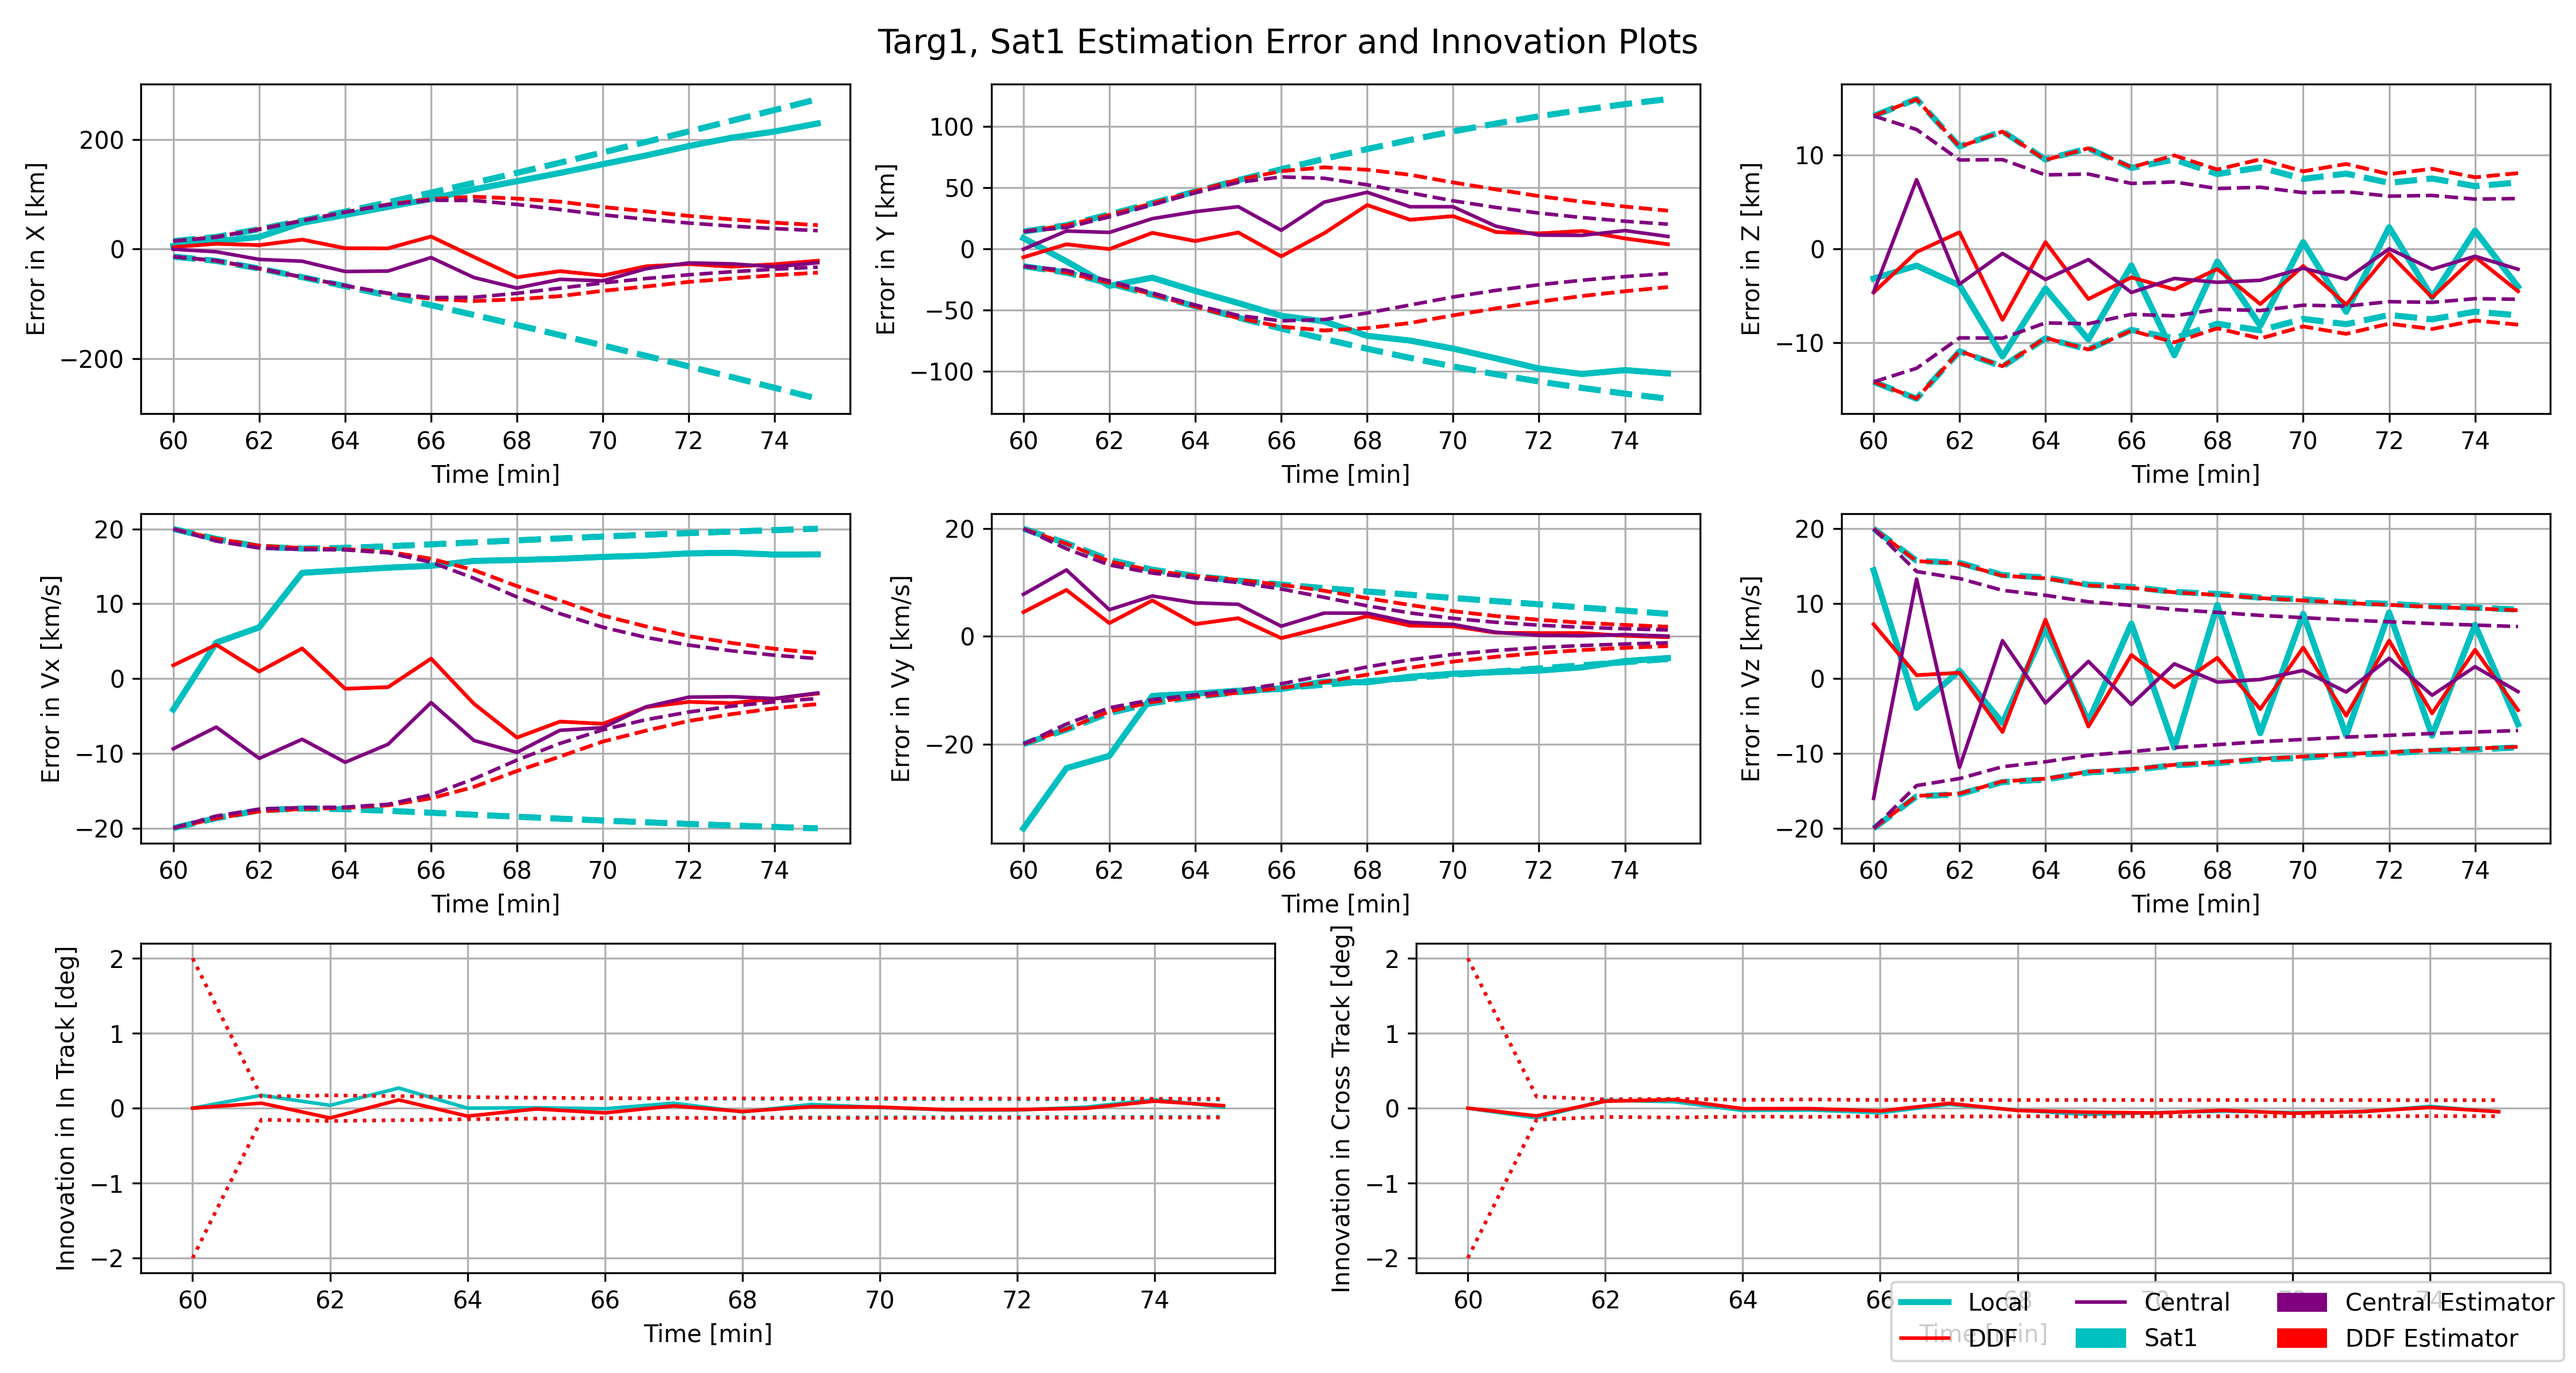
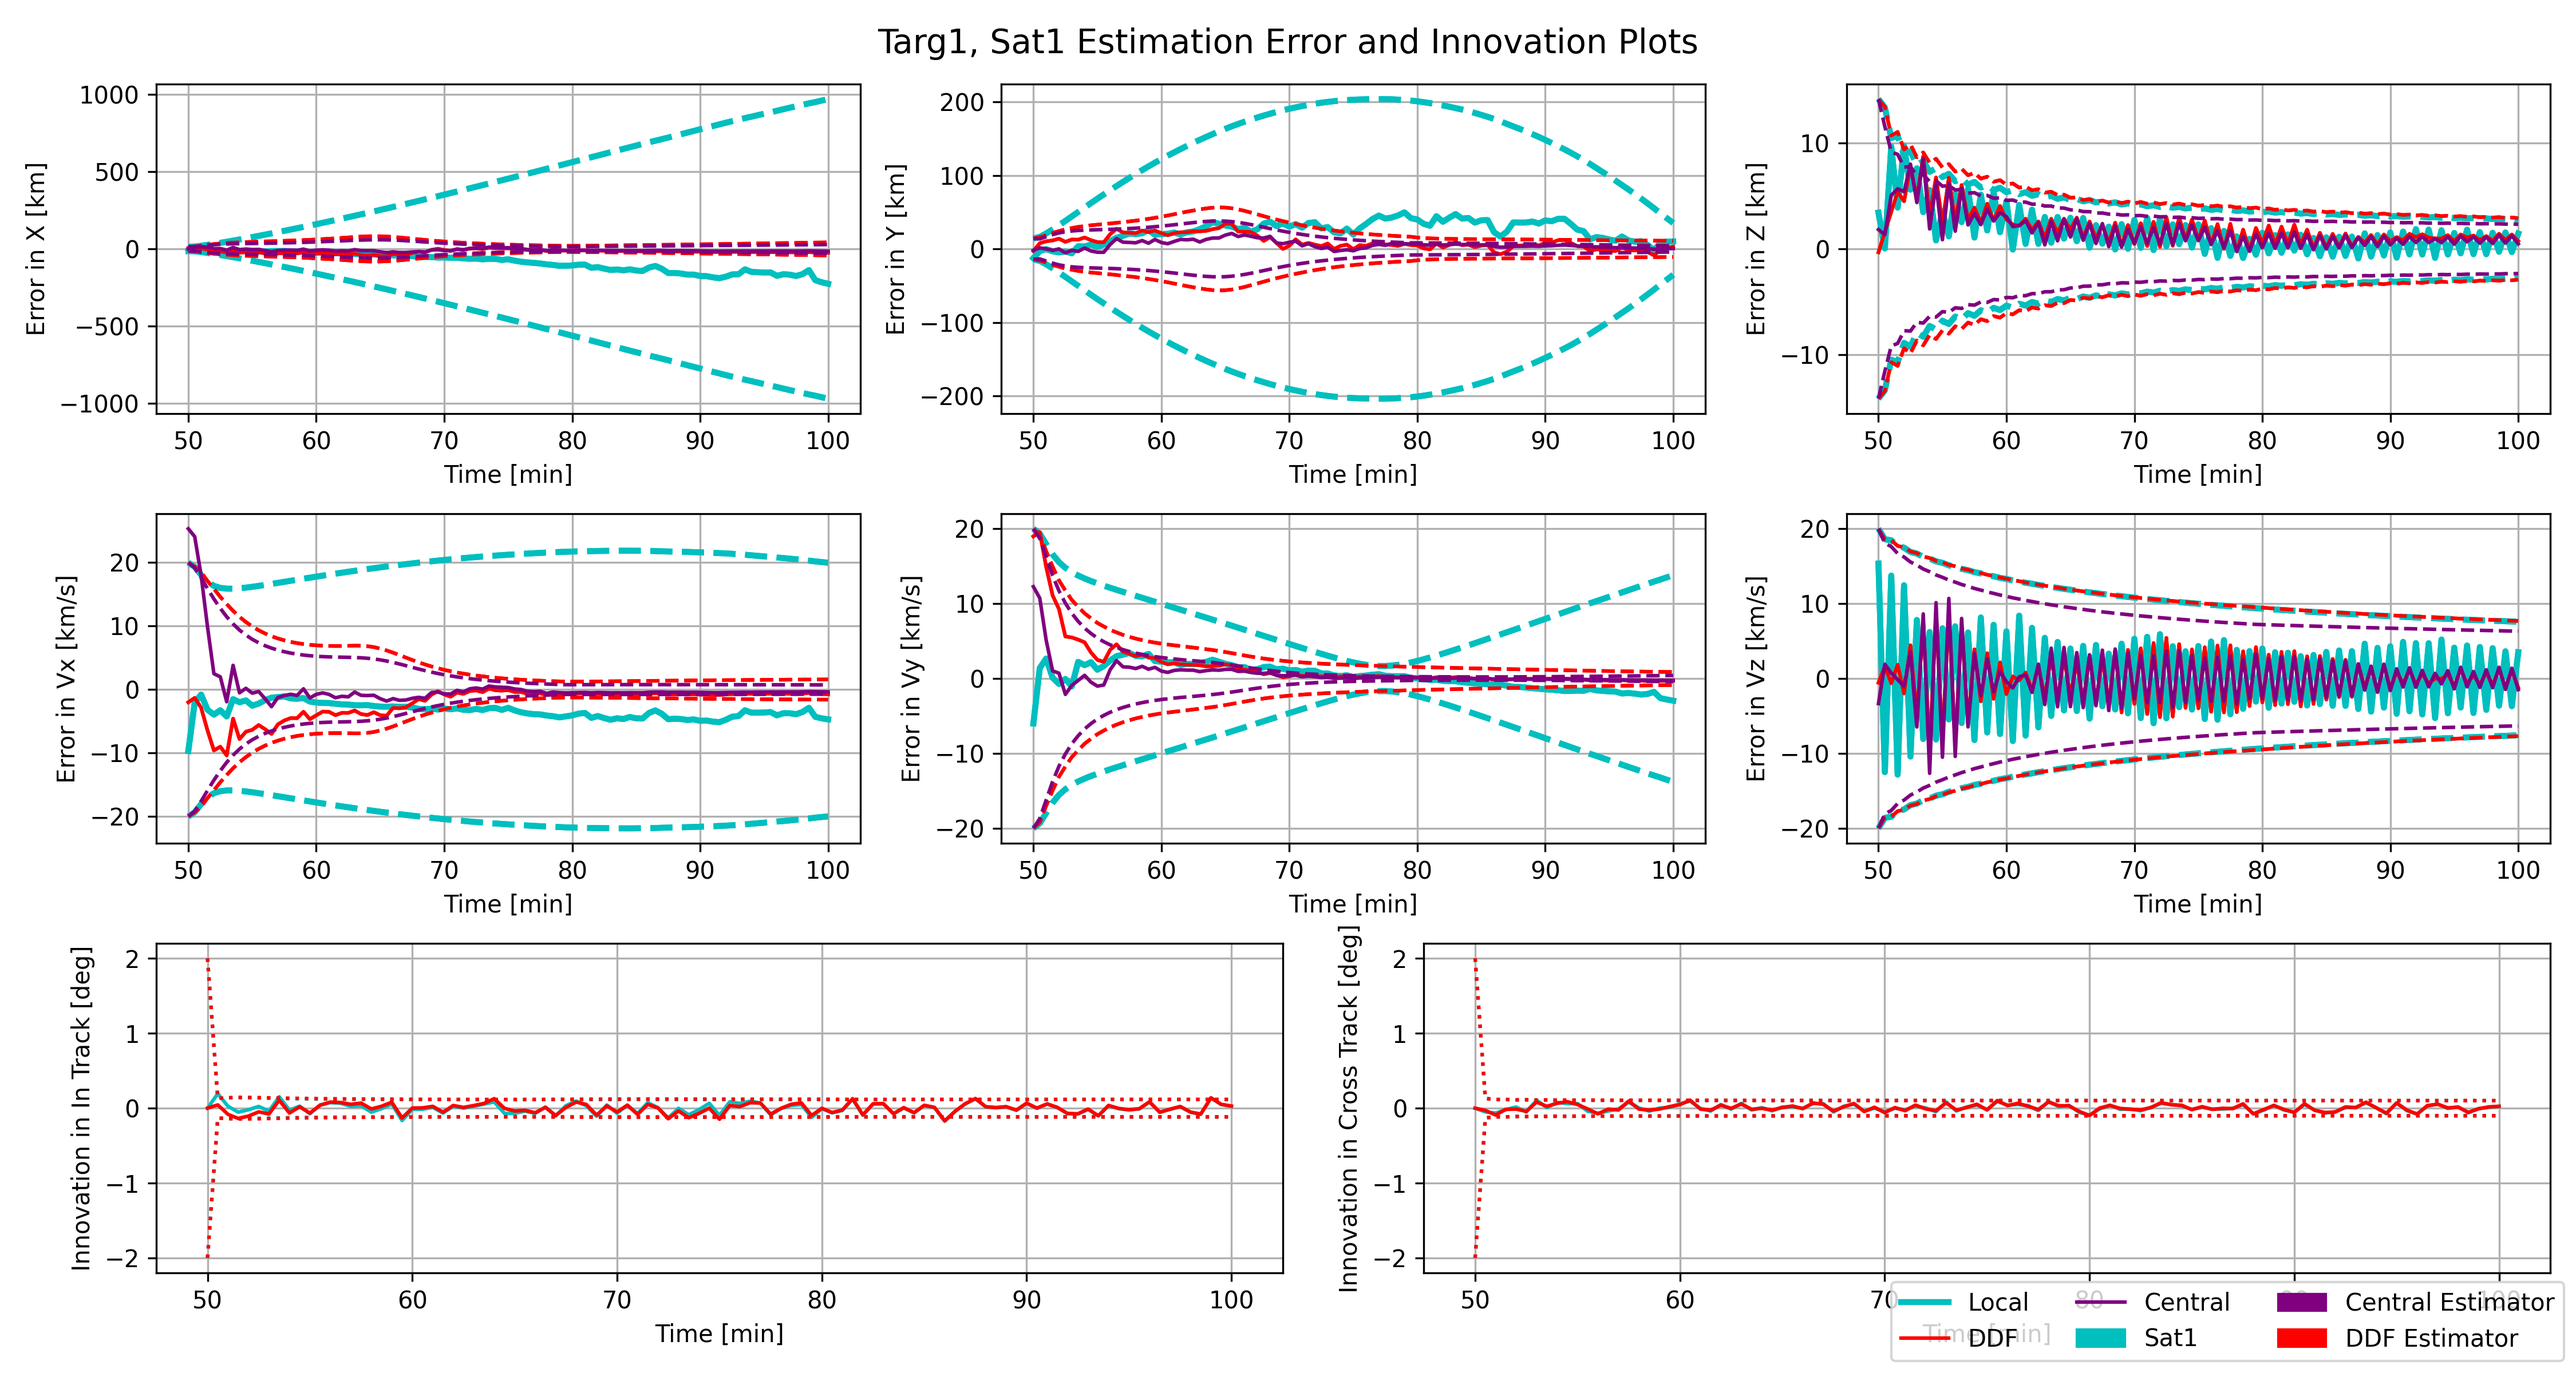
AidanCurrVer

diff --git a/phase1/estimatorClass.py b/phase1/estimatorClass.py
@@ -63,7 +63,8 @@ class BaseEstimator:
         F = self.state_transition_jacobian(est_prior, dt)
         
         # Predict the prcoess noise
-        Q = np.zeros([6,6]) 
+        Q = np.zeros([6,6])
+        Q[2,2] = 10 
                 
         # Predict the covariance
         P_pred = np.dot(F, np.dot(P_prior, F.T)) + Q
@@ -132,14 +133,43 @@ class BaseEstimator:
         self.neesHist[targetID][envTime] = nees
         self.nisHist[targetID][envTime] = nis
     
-    def approximate_Q(self, targetID, dt):
-        # Use the most recent estimates to approximate Q
-        time_prior = max(self.estHist[targetID].keys())
-        est_prior = self.estHist[targetID][time_prior]
-        P_prior = self.covarianceHist[targetID][time_prior]
-        
+    def approximate_Q(self, dt):
         # Maybe try to see if you do 100 spherica coordinates, then convert to cartesian, then take the difference, then take the covariance of that
-    
+        numSamples = 100
+        dt = 0.5
+        samples = np.zeros([numSamples, 6])
+        for i in range(numSamples):
+            # Sample a random spherical cordinate
+            range = np.random.uniform(0, 10000)
+            elevation = np.random.uniform(-np.pi/2, np.pi/2)
+            azimuth = np.random.uniform(-np.pi, np.pi)
+            rangeRate = np.random.uniform(-100, 100)
+            elevationRate = np.random.uniform(-np.pi/2, np.pi/2)
+            azimuthRate = np.random.uniform(-np.pi, np.pi)
+            
+            # Convert to Cartesian
+            x = range * np.cos(elevation) * np.cos(azimuth)
+            y = range * np.cos(elevation) * np.sin(azimuth)
+            z = range * np.sin(elevation)
+
+            # Approximate velocities conversion (simplified version)
+            vx = rangeRate * np.cos(elevation) * np.cos(azimuth) - \
+                range * elevationRate * np.sin(elevation) * np.cos(azimuth) - \
+                range * azimuthRate * np.cos(elevation) * np.sin(azimuth)
+
+            vy = rangeRate * np.cos(elevation) * np.sin(azimuth) - \
+                range * elevationRate * np.sin(elevation) * np.sin(azimuth) + \
+                range * azimuthRate * np.cos(elevation) * np.cos(azimuth)
+
+            vz = rangeRate * np.sin(elevation) + \
+                range * elevationRate * np.cos(elevation)
+                
+            
+            samples[i] = np.array([x, vx, y, vy, z, vz])
+            
+            # Propagate One timestep forward
+            samples[i] = self.state_transition(samples[i], dt)
+            error  = samples[i] - samples.mean(axis=0)
     # VAN LOANS METHOD FOR Q
     def calculate_Q(self, dt, intensity=np.array([0.001, 5, 5])):
         # Use Van Loan's method to tune Q using the matrix exponential

diff --git a/phase1/main.py b/phase1/main.py
@@ -130,7 +130,7 @@ def plot_NEES_NIS(simData):
 
 if __name__ == "__main__":
     # Vector of time for simulation:
-    time_vec = np.linspace(60, 75,  16) * u.minute
+    time_vec = np.linspace(50, 100,  101) * u.minute
     
     env = create_environment()
     env.simulate(time_vec, savePlot = True, saveName = "PDR_DDF", showSim = True)
